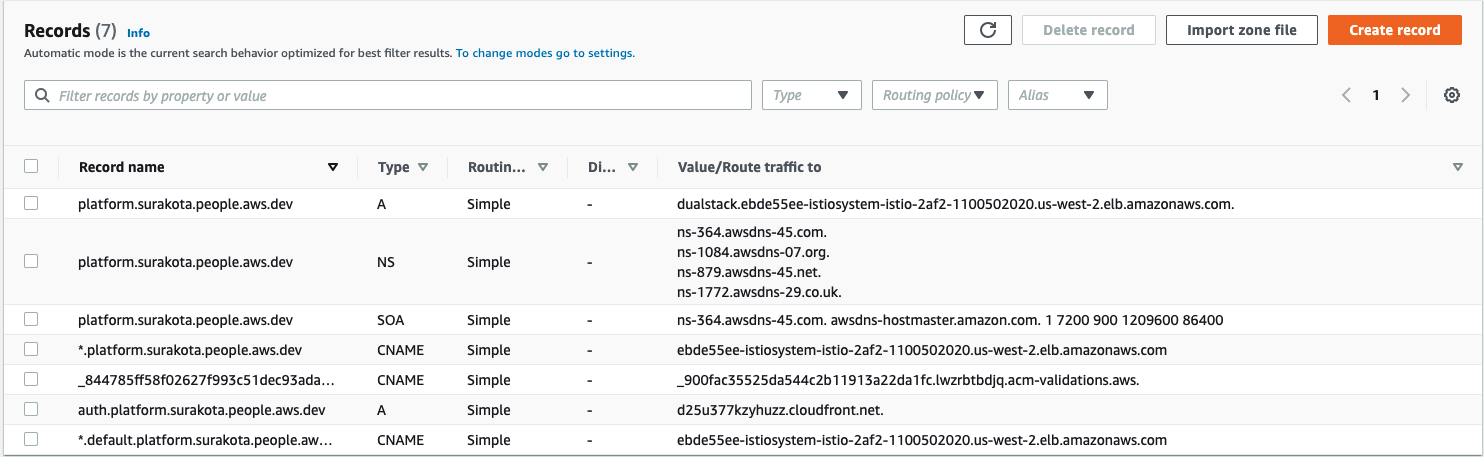
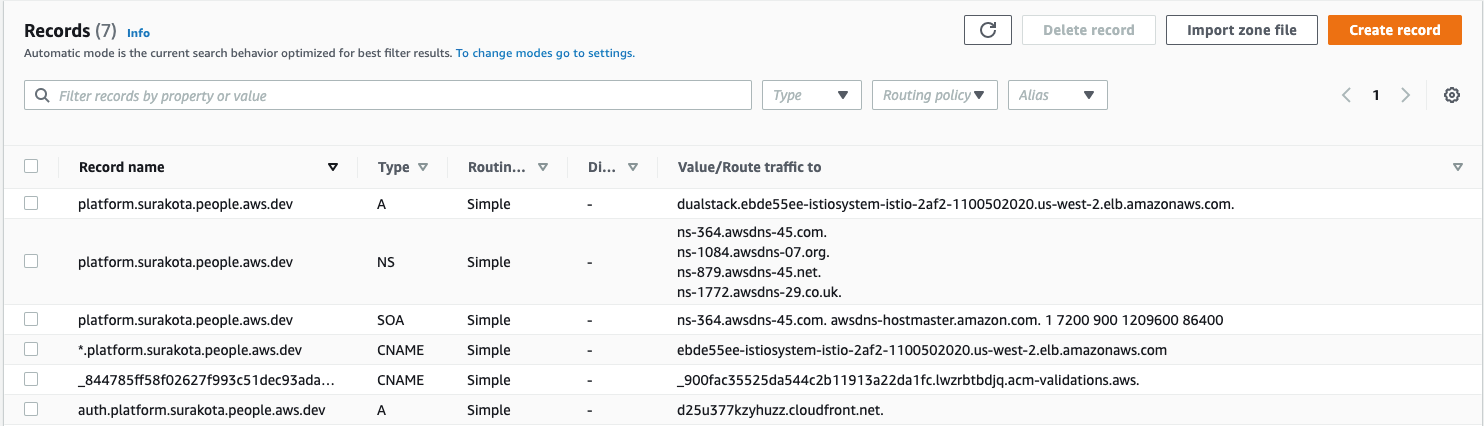
license in PR template and email requirement update

diff --git a/tests/e2e/utils/cognito_bootstrap/aws/cognito.py b/tests/e2e/utils/cognito_bootstrap/aws/cognito.py
@@ -46,7 +46,7 @@ class CustomDomainCognitoUserPool:
                     "Name": "email",
                     "AttributeDataType": "String",
                     "Mutable": True,
-                    "Required": False,
+                    "Required": True,
                 }
             ],
             AdminCreateUserConfig={

diff --git a/docs/deployment/cognito/README.md b/docs/deployment/cognito/README.md
@@ -45,7 +45,8 @@ This guide assumes that you have:
         git clone --branch ${KUBEFLOW_RELEASE_VERSION} https://github.com/kubeflow/manifests.git upstream
         ```
 
-**Tip:** The following sections in this guide walks you through each step for setting up domain, certificates and Cognito userpool and is good for a new user to understand the setup. If you prefer a automated setup for setting up these pre-requisites for deploying Kubeflow with Cognito, follow this [README](./README-automated.md)
+## (Optional) Automated setup
+The rest of the sections in this guide walks you through each step for setting up domain, certificates and Cognito userpool using AWS Console and is good for a new user to understand the design and details. If you prefer to use automated scripts and avoid human error for setting up the resources for deploying Kubeflow with Cognito, follow this [README](./README-automated.md) instead.
 
 ## 1.0 Custom domain
 
@@ -82,7 +83,11 @@ In this section, we will be creating certificate to enable TLS authentication at
 
 ## 3.0 Cognito User Pool
 
-1. Create a user pool in Cognito in the same region as your EKS cluster. Type a pool name and choose `Review defaults` and `Create pool`.
+1. Create a user pool in Cognito in the same region as your EKS cluster. Type a pool name and choose `Review defaults`.
+1. Edit the `Required attributes`, select `email` as a required attribute and click on next step. Email is a required field since Kubeflow uses email address as the user identifier for multi-user isolation. See this [documentation](https://www.kubeflow.org/docs/components/multi-tenancy/getting-started/#manual-profile-creation) for example.
+    1. ![cognito-email-required](./images/cognito-email-required.png)
+1. On the Policies page, select `Only allow administrators to create users` under `Do you want to allow users to sign themselves up?` and save changes. This step is optional but is recommended to have strict control over the users.
+1. Click on `Create pool` to create the user pool.
 1. Add an `App client` with any name and the default options.
     1. ![cognito-app-client-id](./images/cognito-app-client-id.png)
 1. In the `App client settings`, select `Authorization code grant` flow under OAuth-2.0 and check box `email`, `openid`, `aws.cognito.signin.user.admin` and `profile` scopes. Also check box `Enabled Identity Providers`. 
@@ -301,7 +306,7 @@ In this section, we will be creating certificate to enable TLS authentication at
         istio-ingress   <none>   *       ebde55ee-istiosystem-istio-2af2-1100502020.us-west-2.elb.amazonaws.com   80      15d
         ```
     2. If `ADDRESS` is empty after a few minutes, check the logs of alb-ingress-controller by following [this guide](https://www.kubeflow.org/docs/distributions/aws/troubleshooting-aws/#alb-fails-to-provision)
-1. When ALB is ready, copy the DNS name of that load balancer and create 2 CNAME entries to it in Route53 under subdomain (`platform.example.com`) for `*.platform.example.com` and `*.default.platform.example.com`
+1. When ALB is ready, copy the DNS name of that load balancer and create a CNAME entry to it in Route53 under subdomain (`platform.example.com`) for `*.platform.example.com`
     1. ![subdomain-*.platform-and-*.default-records](./images/subdomain-*.platform-and-*.default-records.png)
 1. Update the type `A` record created in section for `platform.example.com` using ALB DNS name. Change from `127.0.0.1` → ALB DNS name. You have to use alias form under `Alias to application and classical load balancer` and select region and your ALB address.
     1. ![subdomain-A-record-updated](./images/subdomain-A-record-updated.png)

diff --git a/README.md b/README.md
@@ -1,6 +1,6 @@
 [![contributions welcome](https://img.shields.io/badge/contributions-welcome-brightgreen.svg?style=flat)](https://github.com/awslabs/kubeflow-manifests/issues)
 ![current development version](https://img.shields.io/badge/Kubeflow-v1.4.1-green.svg?style=flat)
-
+[![License](https://img.shields.io/badge/License-Apache_2.0-blue.svg)](./LICENSE)
 # Kubeflow on AWS
 
 ## Overview

diff --git a/.github/pull_request_template.md b/.github/pull_request_template.md
@@ -9,3 +9,5 @@ Resolves #
 - [ ] e2e tests pass
 - Details about new tests (If this PR adds a new feature)
 - Details about any manual tests performed
+
+By submitting this pull request, I confirm that my contribution is made under the terms of the Apache 2.0 license.
